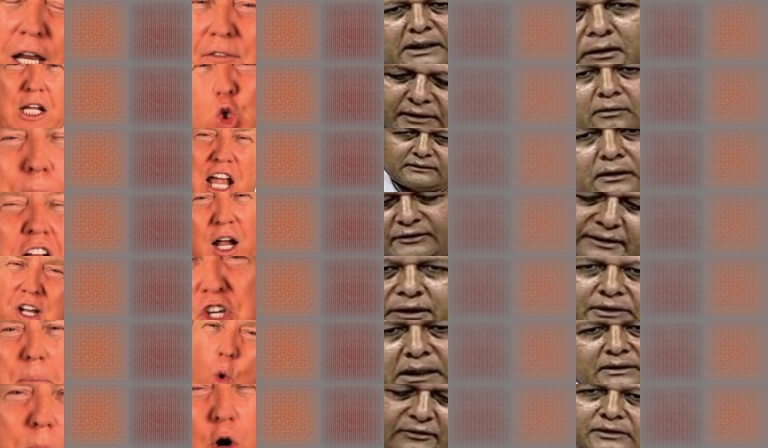
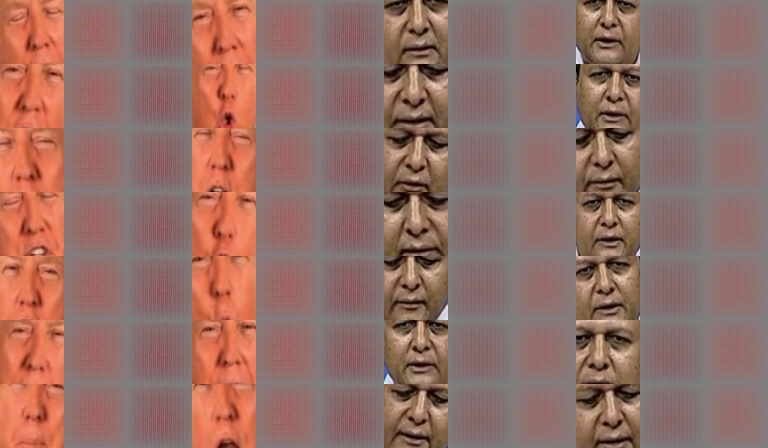
working but taking too much time

diff --git a/Ref/deepfake-pytorch/convert_video.py b/Ref/deepfake-pytorch/convert_video.py
@@ -6,7 +6,7 @@ from models import Autoencoder, toTensor, var_to_np
 from image_augmentation import random_warp
 import numpy as np
 
-video_name = 'train/me.mp4'
+video_name = 'train/trump.mp4'
 video_path = os.path.join(os.path.realpath('.'), video_name)
 
 ##################################################
@@ -36,7 +36,7 @@ def extract_faces(video_path):
     cap = cv2.VideoCapture(video_path)
     n = 0
     print(cap.isOpened())
-    while (cap.isOpened() and n<1000):
+    while (cap.isOpened() and n<10):
         print('Inside Loop')
         _, frame = cap.read()
         position, croped_face= extract_face(frame) #function called
@@ -50,21 +50,21 @@ def extract_faces(video_path):
         converted_face = var_to_np(converted_face)
         converted_face = converted_face.transpose(1,2,0)
         converted_face = np.clip(converted_face * 255, 0, 255).astype('uint8')
-        # cv2.imshow("converted_face", cv2.resize(converted_face, (256,256)))
-        # cv2.waitKey(2000)
-        back_size = cv2.resize(converted_face, (croped_face.shape[0]-120, croped_face.shape[1]-120))
-        cv2.imshow("back_face", back_size)
+        cv2.imshow("converted_face", cv2.resize(converted_face, (256,256)))
+        cv2.waitKey(2000)
+        back_size = cv2.resize(converted_face, (croped_face.shape[0], croped_face.shape[1]))
+        # cv2.imshow("back_face", back_size)
         # cv2.waitKey(1000)
         # print(frame.shape)
         # print(back_size.shape)
         merged = merge(position, back_size, frame) #function called
         # print(merged.shape)
         out.write(merged)
-        cv2.imshow('frame', frame)
+        # cv2.imshow('frame', frame)
         # if cv2.waitKey(1) & 0xFF == ord('q'):
         #     break
         n = n + 1
-        # print(n)
+        print(n)
     print("exit")
 
 def convert_face(croped_face):
@@ -105,7 +105,7 @@ def merge(postion, face, body):
 if __name__ == "__main__":
     print(video_path)
     fourcc = cv2.VideoWriter_fourcc('M', 'J', 'P', 'G')
-    out = cv2.VideoWriter("me4_out.avi", fourcc, 3, (1920, 1080))
+    out = cv2.VideoWriter("me4_out.avi", fourcc, 3, (450, 360))
     extract_faces(video_path)
 
     out.release()

diff --git a/Ref/deepfake-pytorch/train.py b/Ref/deepfake-pytorch/train.py
@@ -18,7 +18,7 @@ from training_data import get_training_data
 parser = argparse.ArgumentParser(description='DeepFake-Pytorch')
 parser.add_argument('--batch-size', type=int, default=64, metavar='N',
                     help='input batch size for training (default: 64)')
-parser.add_argument('--epochs', type=int, default=5, metavar='N',
+parser.add_argument('--epochs', type=int, default=200, metavar='N',
                     help='number of epochs to train (default: 10000)')
 parser.add_argument('--no-cuda', action='store_true', default=False,
                     help='enables CUDA training')
@@ -160,7 +160,7 @@ if __name__ == "__main__":
         #exit(0)
         figure = np.clip(figure * 255, 0, 255).astype('uint8')
 
-        cv2.imshow("", figure)
+        # cv2.imshow("", figure)
         cv2.imwrite("combined"+str(epoch)+".jpg",figure)
         key = cv2.waitKey(1)
         if key == ord('q'):
